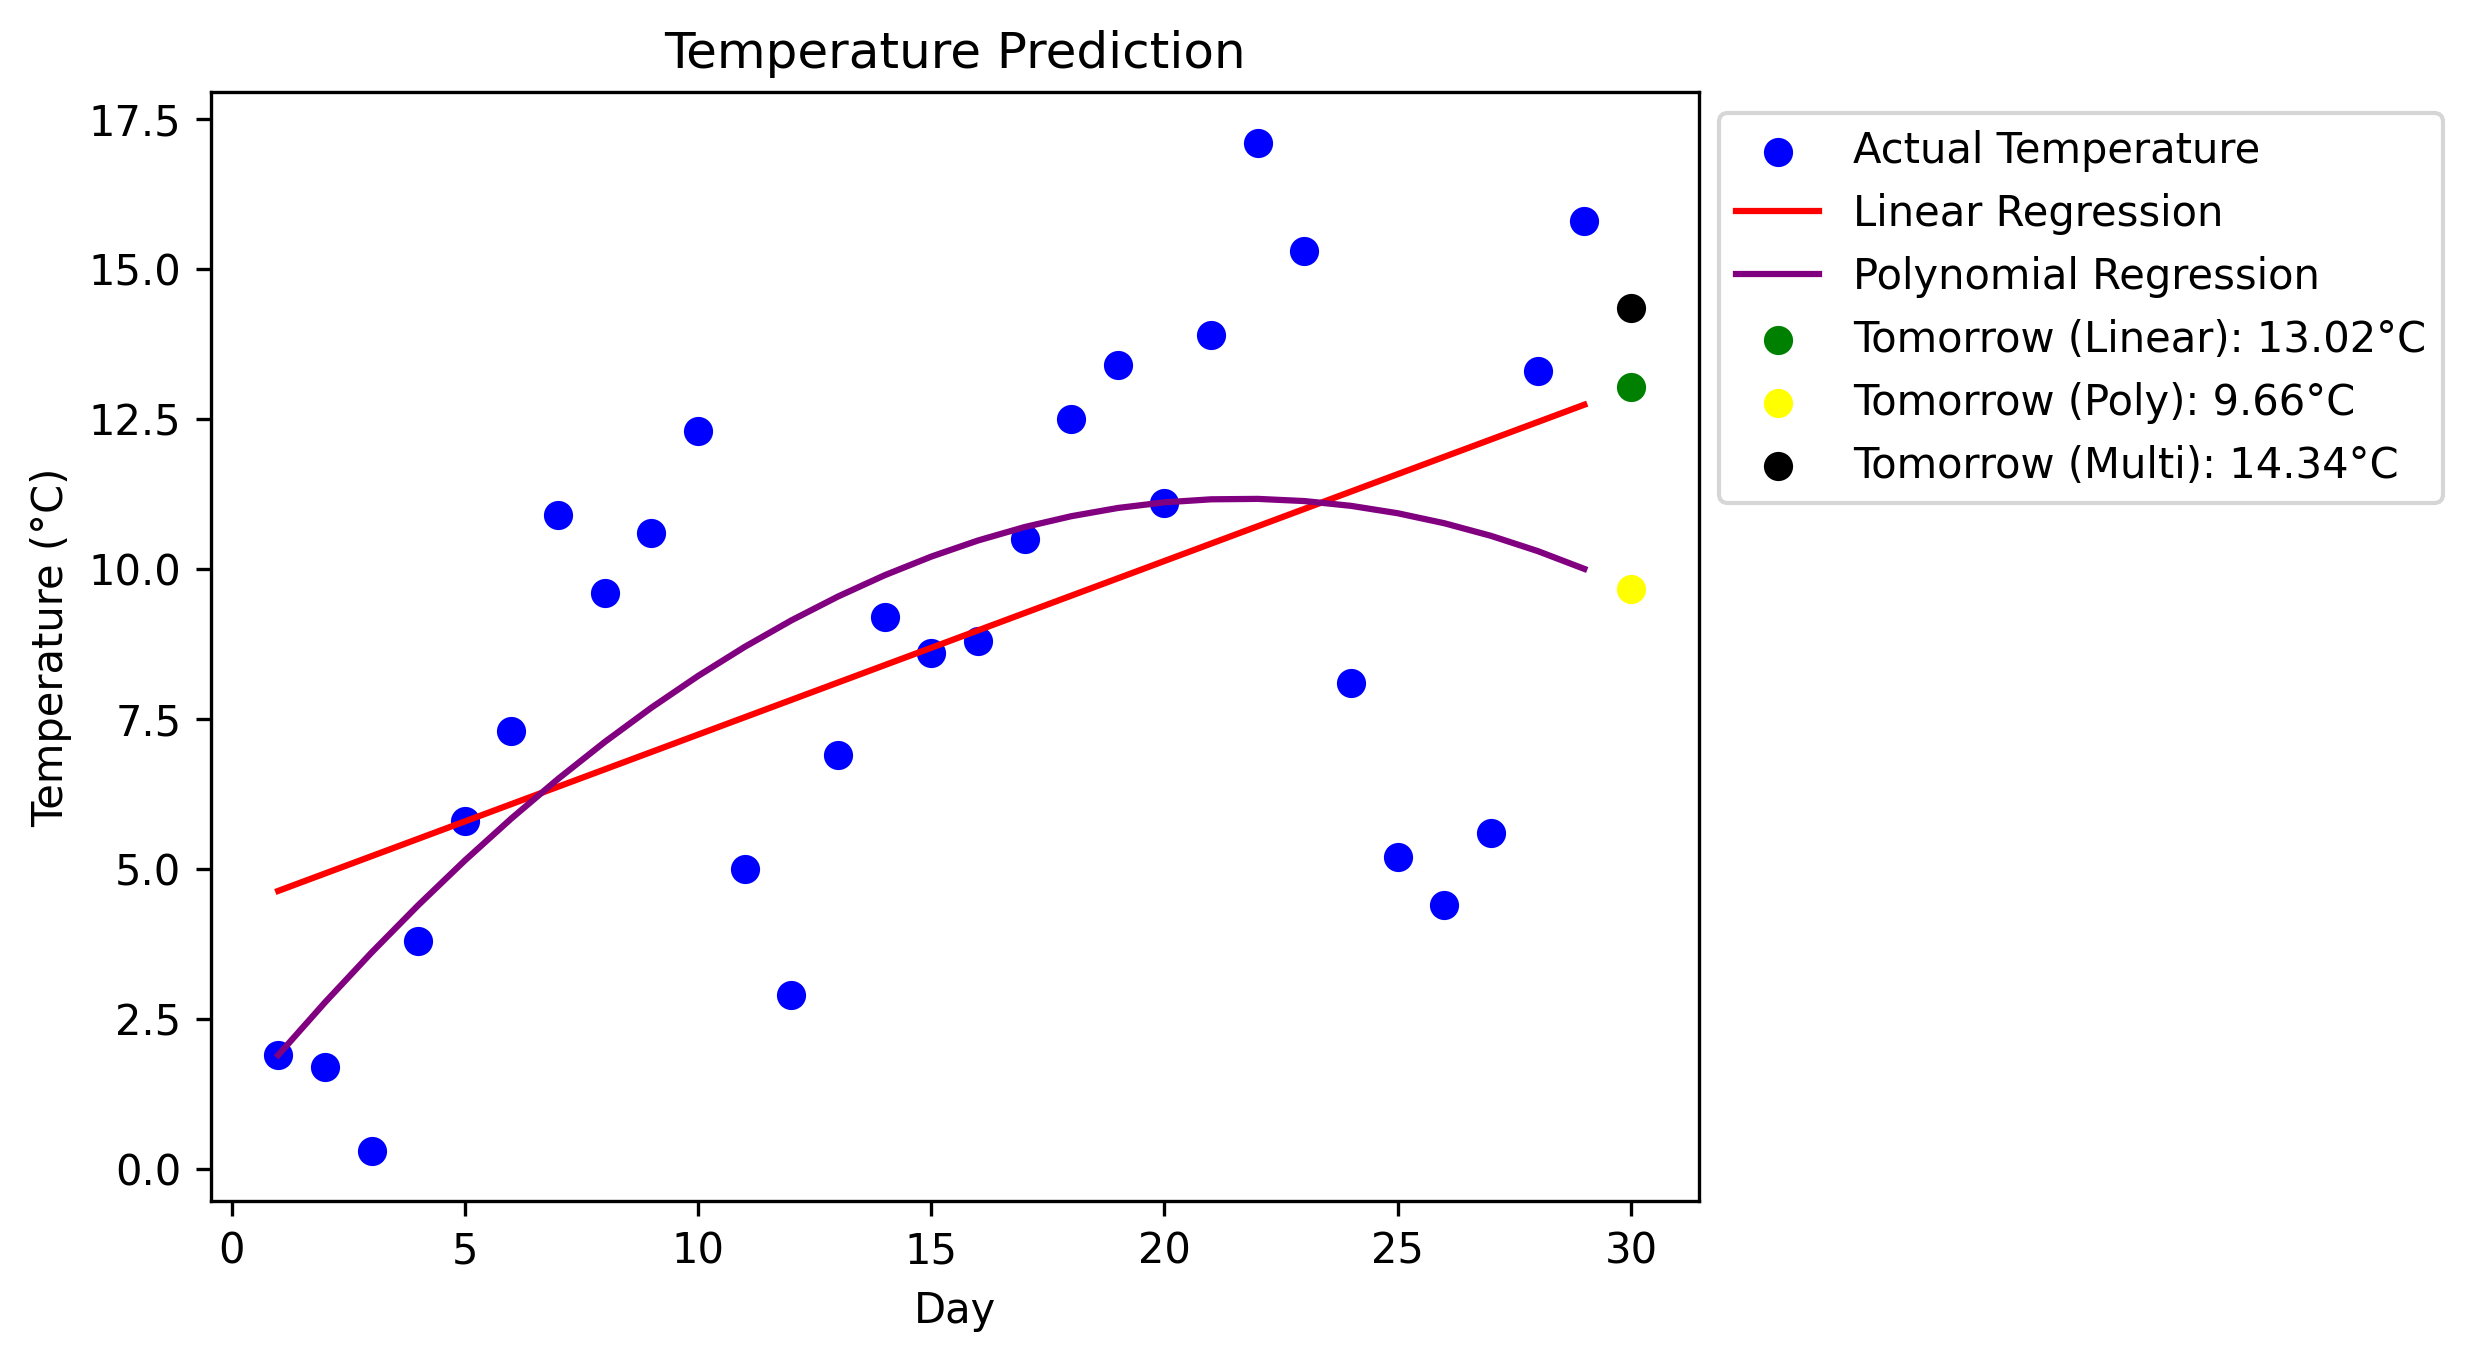
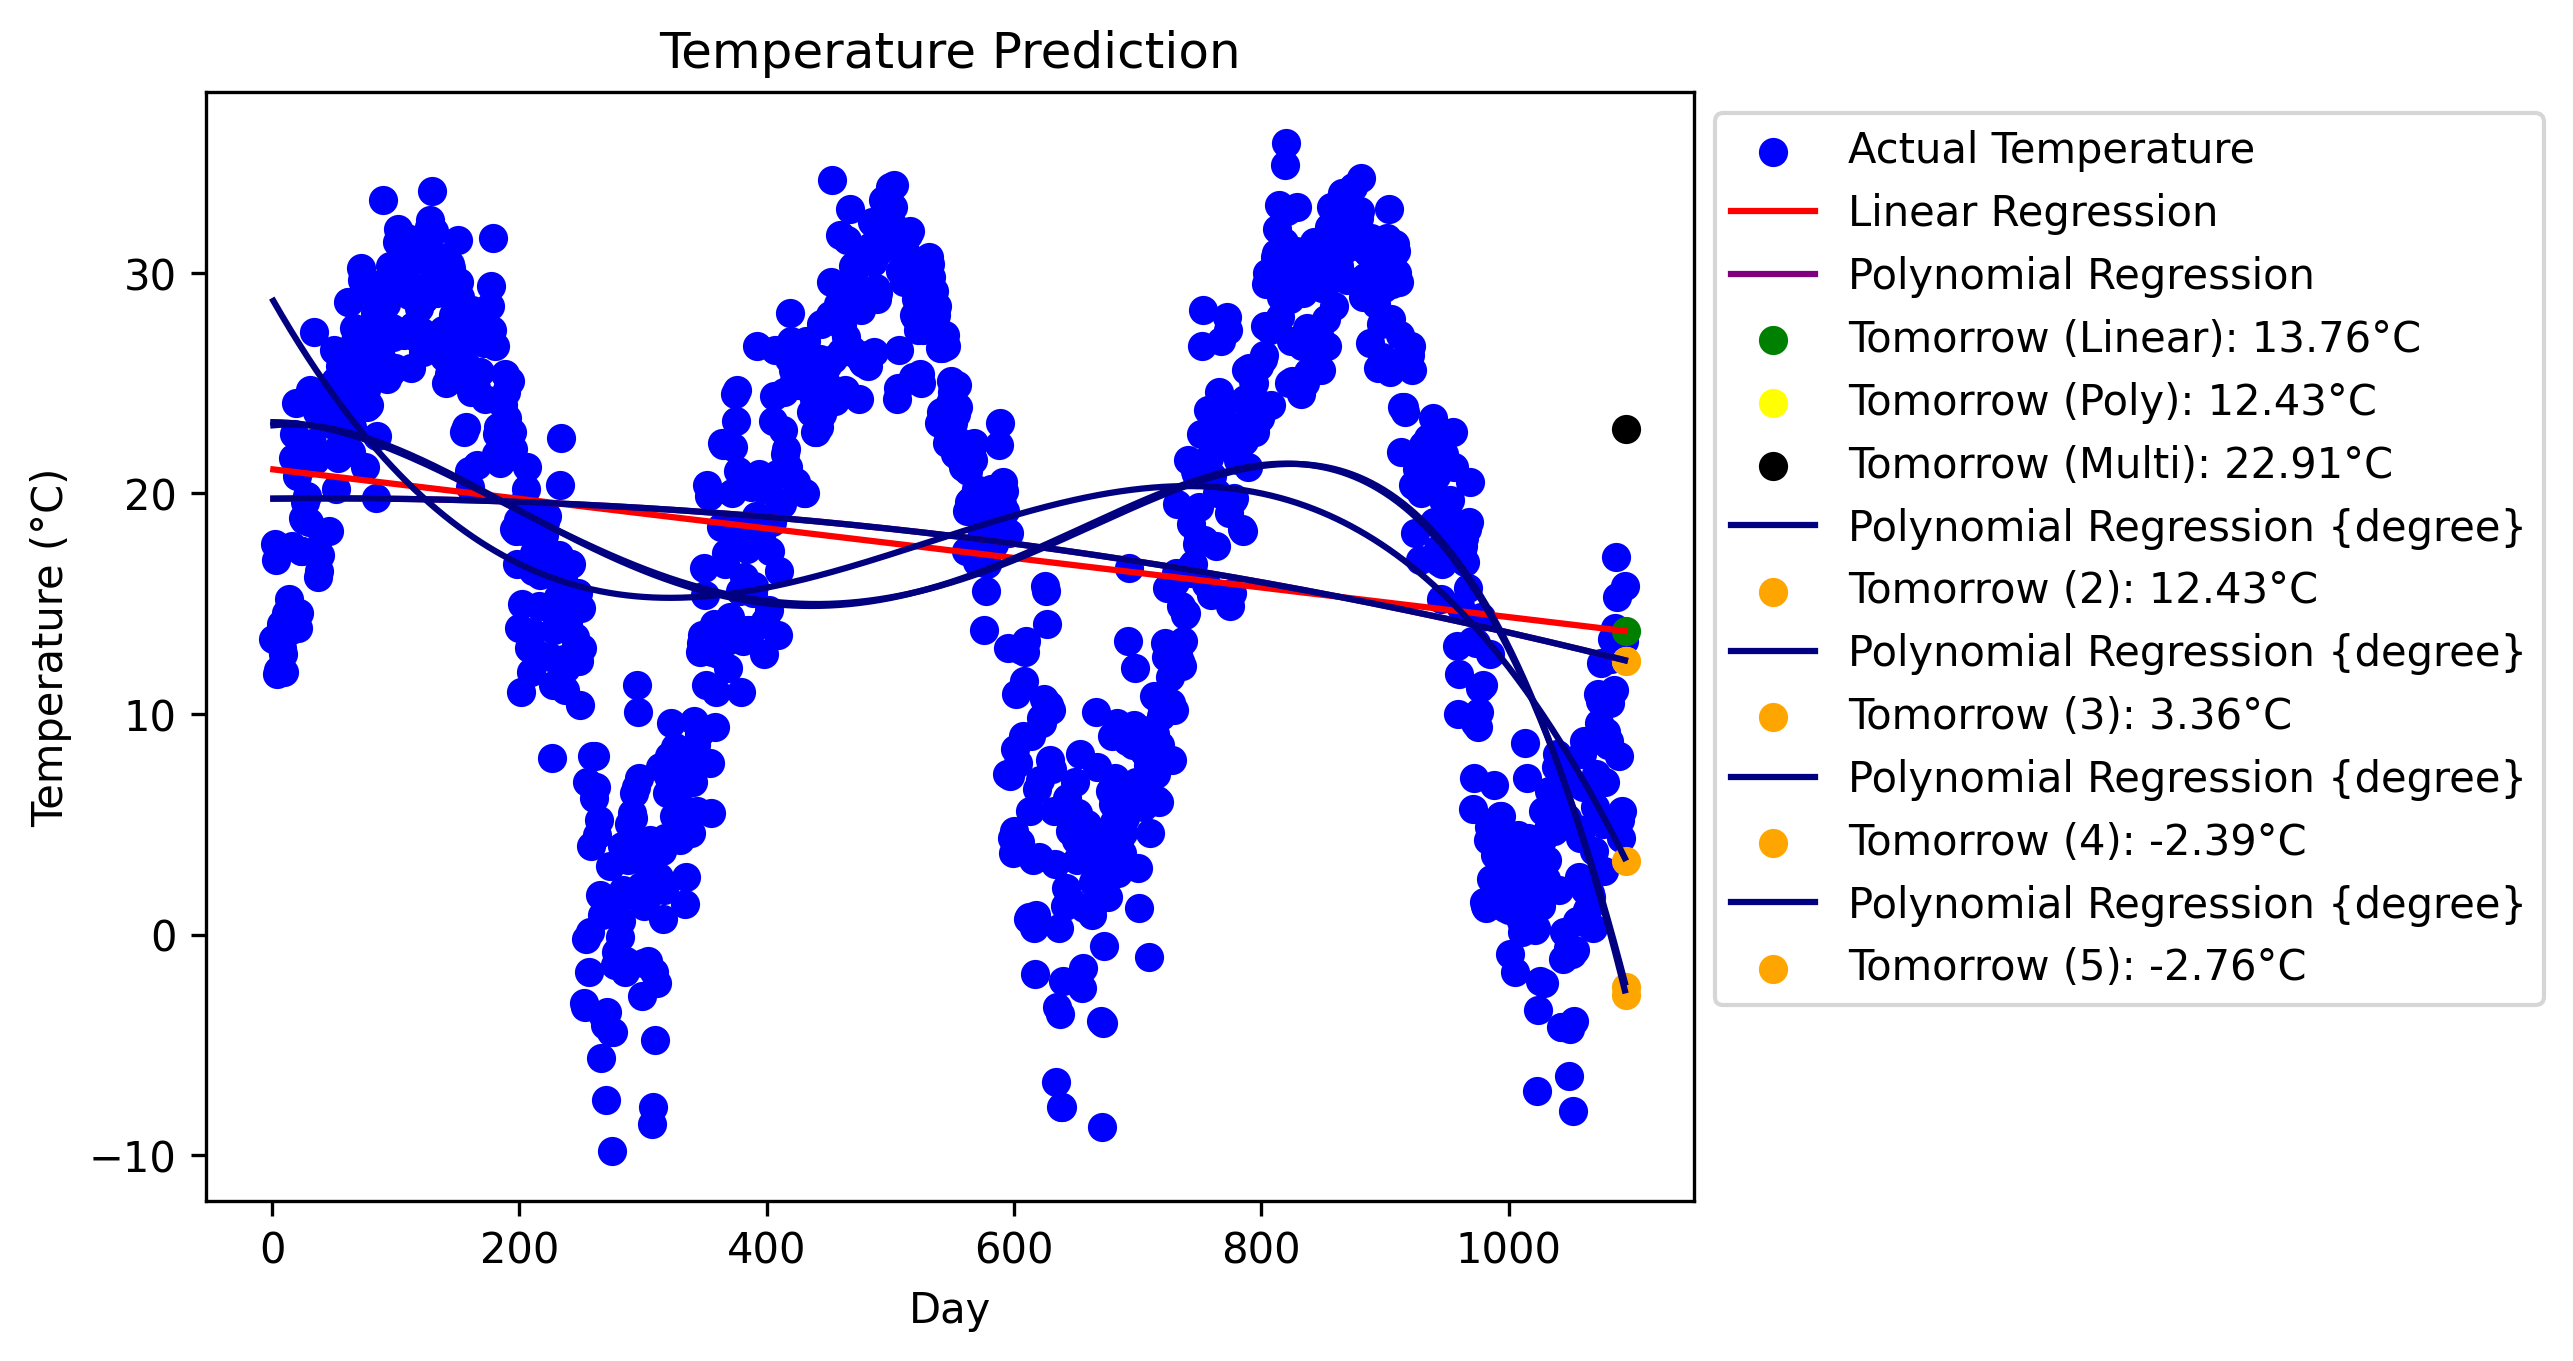
3년치 데이터 추가 및 랜덤 포레스트 기법 사용

diff --git a/predict_weather.py b/predict_weather.py
@@ -5,14 +5,16 @@ from sklearn.linear_model import LinearRegression
 import matplotlib.pyplot as plt
 from sklearn.metrics import mean_squared_error, r2_score
 from sklearn.preprocessing import PolynomialFeatures
+from sklearn.model_selection import cross_val_score, KFold
+from sklearn.ensemble import RandomForestRegressor
 
 # 서울의 위도, 경도
 LAT, LON = 37.5665, 126.9780  
 BASE_URL = "https://archive-api.open-meteo.com/v1/archive"
 
-# 날짜 계산 (최근 30일)
+# 날짜 계산 (최근 365일)
 today = datetime.date.today()
-start_date = today - datetime.timedelta(days=30)
+start_date = today - datetime.timedelta(days=1095)
 end_date = today - datetime.timedelta(days=2)
 
 # API 요청
@@ -96,9 +98,68 @@ plt.scatter(tomorrow_day, predicted_temp_linear, color='green', label=f'Tomorrow
 plt.scatter(tomorrow_day, predicted_temp_poly, color='yellow', label=f'Tomorrow (Poly): {predicted_temp_poly:.2f}°C')
 plt.scatter(tomorrow_day, predicted_temp_multi, color='black', label=f'Tomorrow (Multi): {predicted_temp_multi:.2f}°C')
 
+for degree in [2, 3, 4, 5]:
+    polys = PolynomialFeatures(degree=degree)
+    days_polys = polys.fit_transform(days)
+
+    model_polys = LinearRegression()
+    model_polys.fit(days_polys, temps)
+
+    predicted_polys = model_polys.predict(days_polys)
+
+    predicted_temp_polys = model_polys.predict(polys.transform(tomorrow_day))[0][0]
+
+    mse_polys = mean_squared_error(temps, predicted_polys)
+
+    r2_polys = r2_score(temps, predicted_polys)
+
+    print(f"Degree {degree} → MSE: {mse_polys:.2f}, R²: {r2_polys:.2f}, predict: {predicted_temp_polys:.2f}")
+
+    plt.plot(days, model_polys.predict(days_polys), color='navy', label='Polynomial Regression {degree}')
+    plt.scatter(tomorrow_day, predicted_temp_polys, color='orange', label=f'Tomorrow ({degree}): {predicted_temp_polys:.2f}°C')
+
+
 plt.title('Temperature Prediction')
 plt.xlabel('Day')
 plt.ylabel('Temperature (°C)')
 plt.legend(loc='upper left', bbox_to_anchor=(1, 1))
 plt.savefig('temperature_prediction.png', bbox_inches='tight', dpi=300)
 plt.show()
+
+# 랜덤 포레스트 모델 학습 (200)
+rf_model = RandomForestRegressor(n_estimators=200, random_state=42)
+rf_model.fit(features, temps.ravel())
+predicted_temp_rf = rf_model.predict(features[-1].reshape(1, -1))[0]
+
+kfold = KFold(n_splits=5, shuffle=True, random_state=42)
+scores = cross_val_score(rf_model, days, temps.ravel(), cv=kfold, scoring='r2')
+print(f"🌲 랜덤 포레스트 각 Fold 별 R² 점수: {scores}")
+print(f"평균 R²: {np.mean(scores):.2f}")
+print(f"🌡 랜덤 포레스트 예측: {predicted_temp_rf:.2f}°C")
+
+
+# 특성 중요도 추출
+features_importance = rf_model.feature_importances_
+
+# 특성 이름 정리
+features_names = ["Humidity", "Wind Speed", "Pressure", "Precipitation", "Cloud Cover"]
+
+# 출력
+print("🌟 Feature Importance (중요도):")
+for name, importance in zip(features_names, features_importance):
+    print(f"{name}: {importance:.4f}")
+
+future_api = "https://api.open-meteo.com/v1/forecast"
+params = {
+    "latitude": LAT,
+    "longitude": LON,
+    "daily": "temperature_2m_max",
+    "timezone": "Asia/Seoul"
+}
+
+response = requests.get(future_api, params=params)
+forecast = response.json()
+
+# 내일 날짜 기준 최고 기온 가져오기
+tomorrow_forecast = forecast['daily']['temperature_2m_max'][1]
+print(f"🌤 Open-Meteo 실측 내일 최고 기온 (예보): {tomorrow_forecast}°C")
